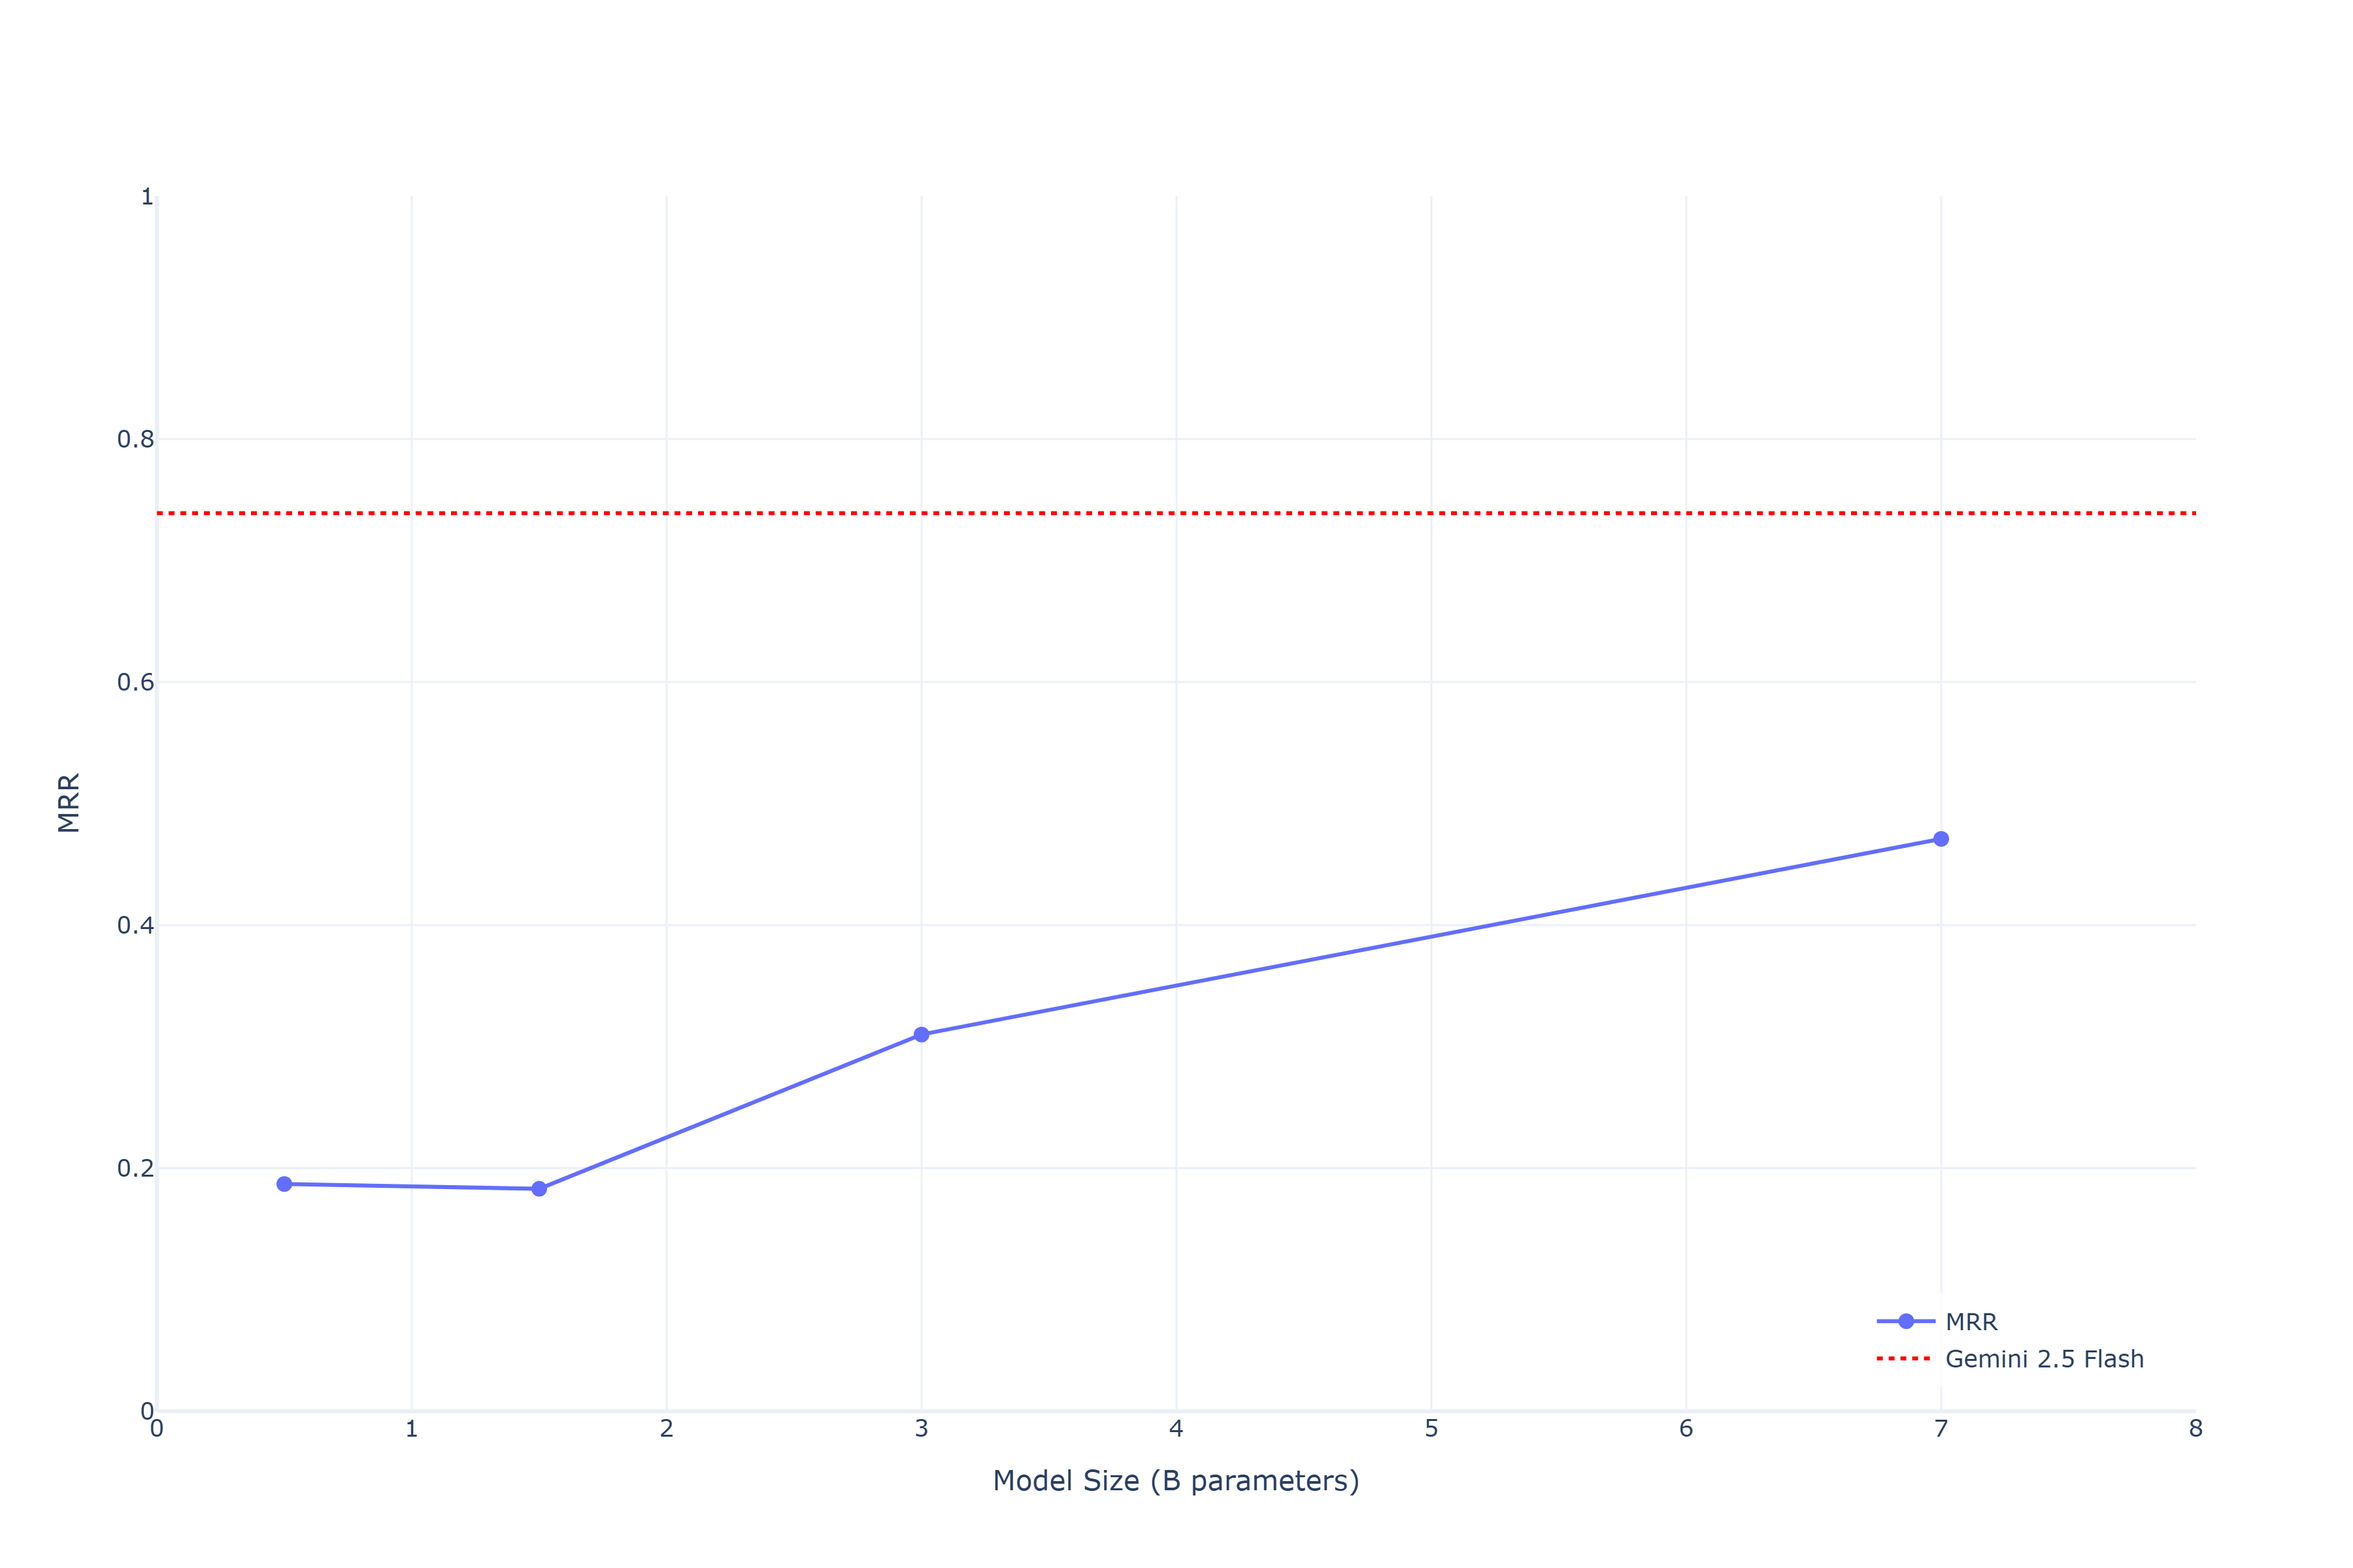
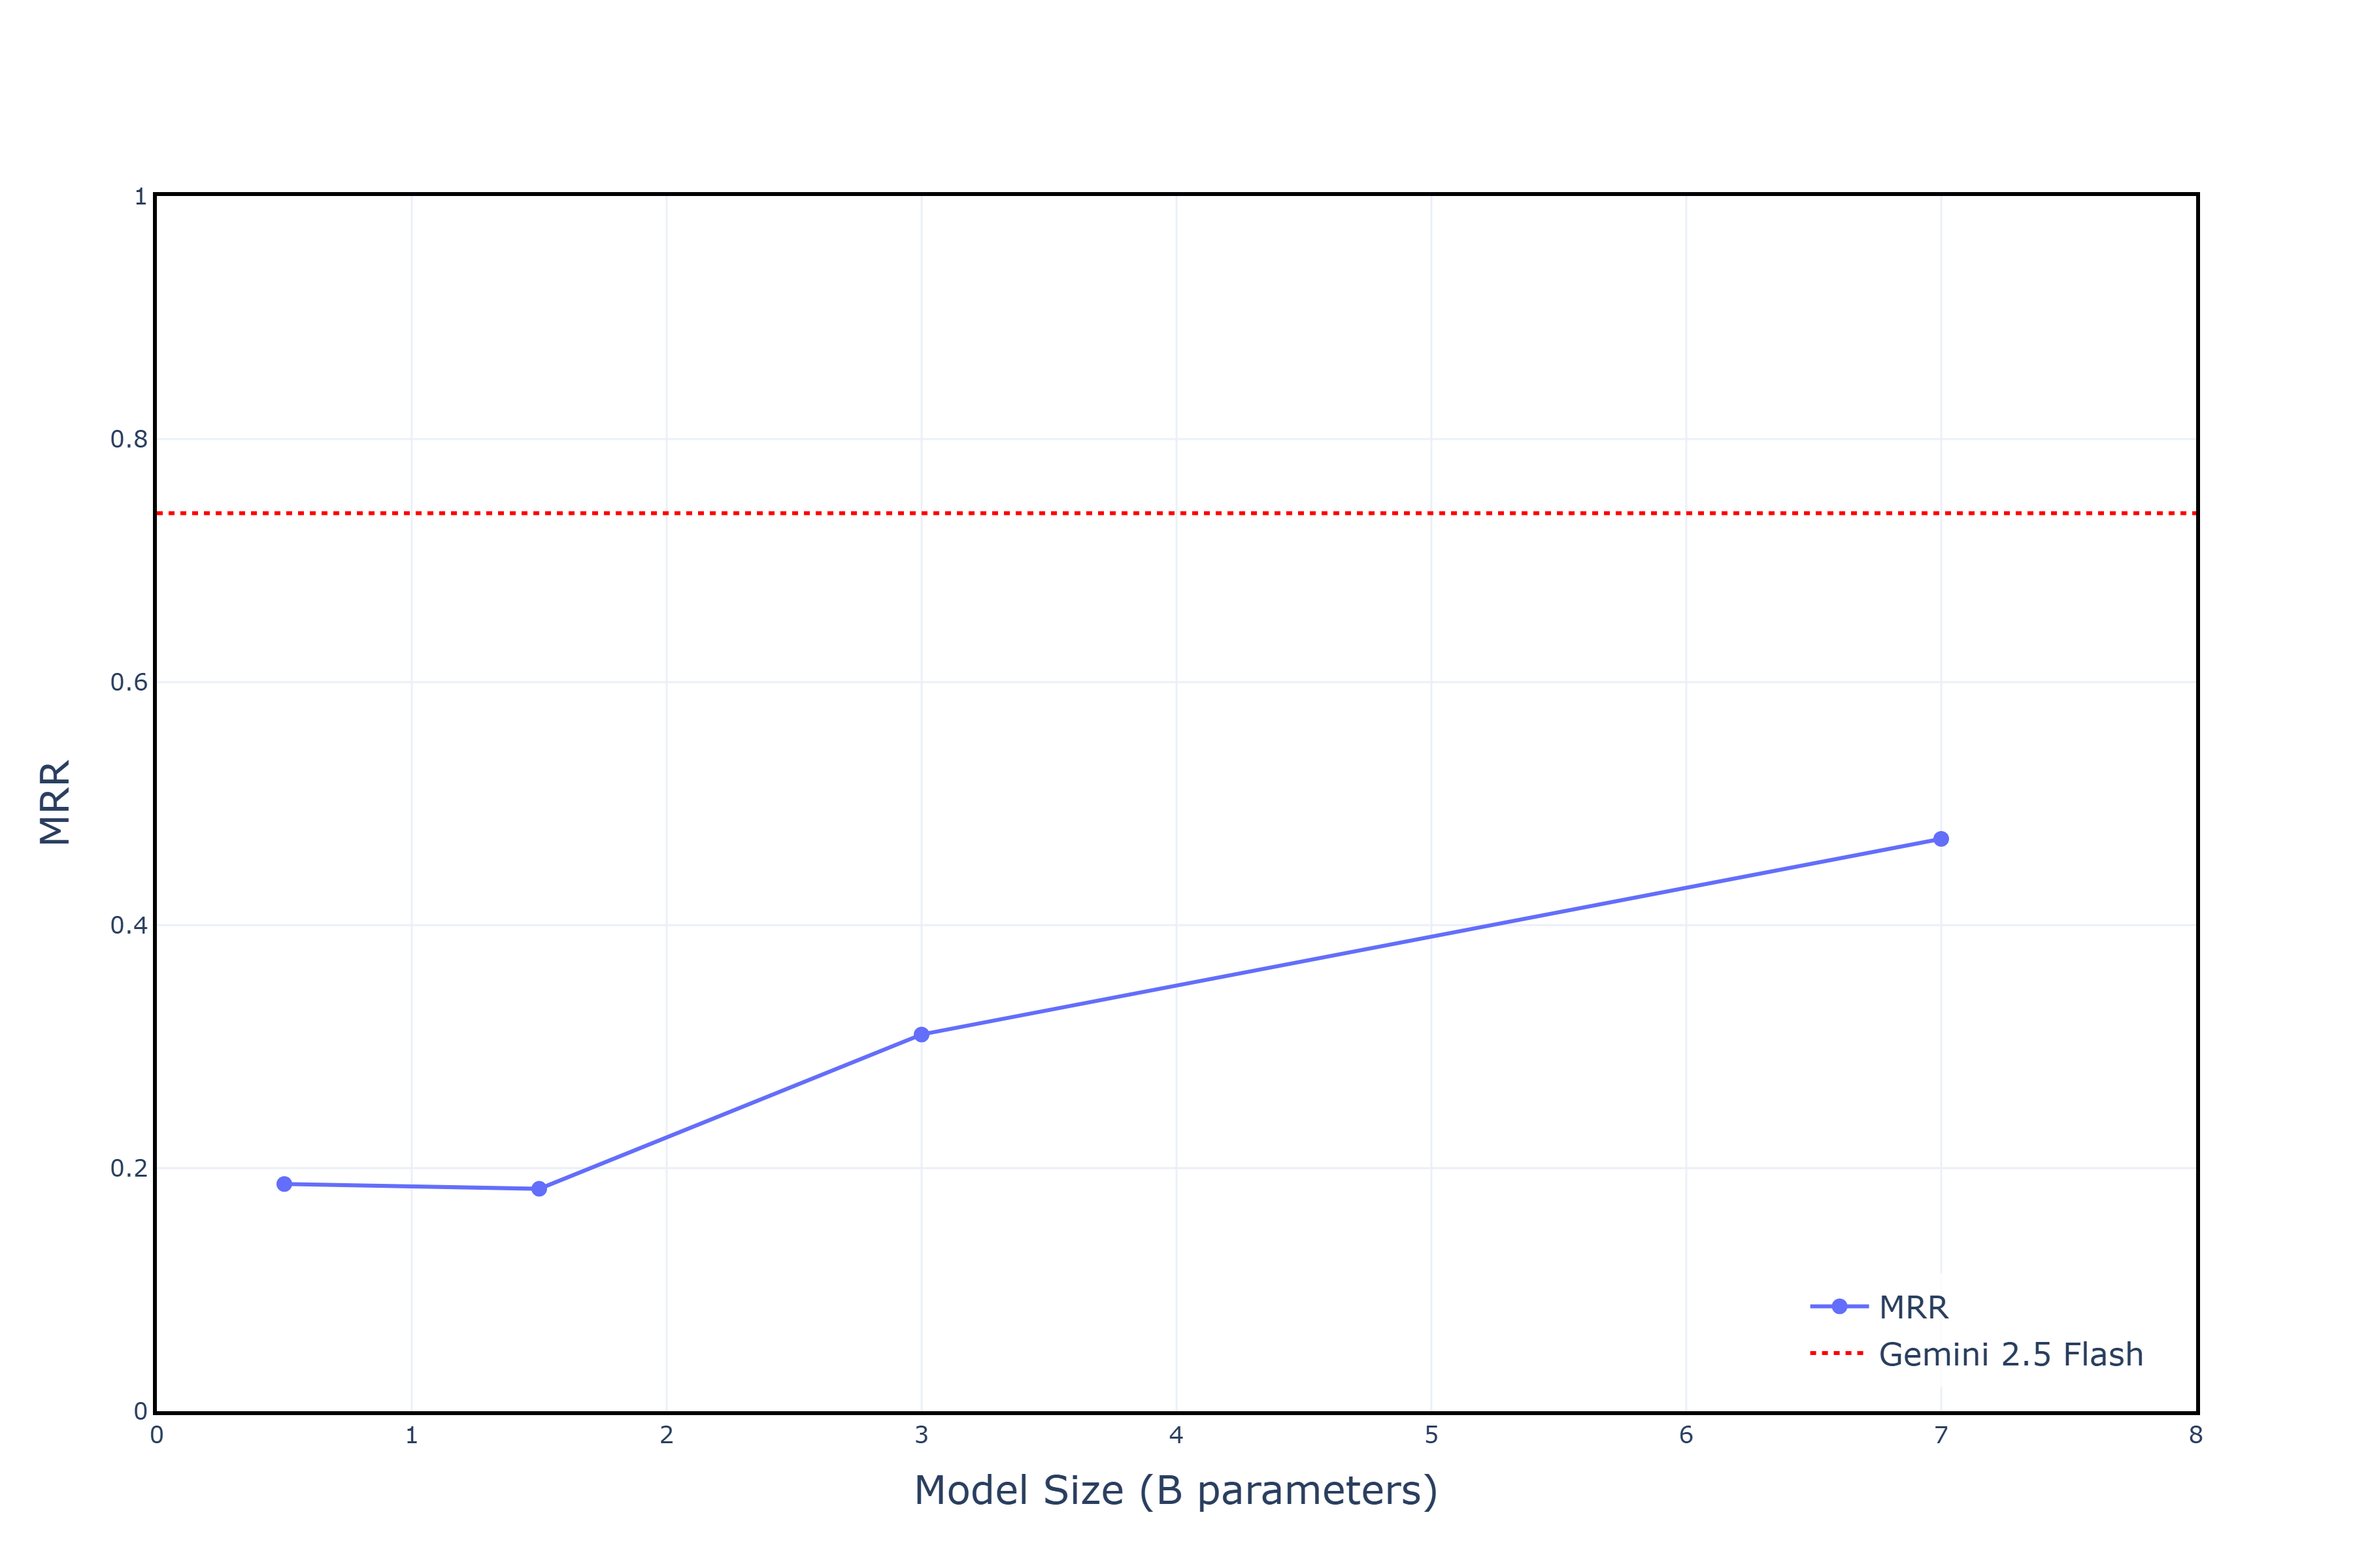
graph

diff --git a/graphs/size-ablation.py b/graphs/size-ablation.py
@@ -27,6 +27,25 @@ fig = go.Figure(
     ]
 )
 fig.update_layout(
+    legend=dict(
+        font=dict(size=16),
+        x=0.98,
+        y=0.02,
+        xanchor='right',
+        yanchor='bottom',
+        bgcolor='rgba(255,255,255,0.7)'
+    )
+)
+# Add a full contour (box) around the plot area
+fig.update_layout(
+    xaxis=dict(showline=True, linewidth=2, linecolor='black', mirror=True),
+    yaxis=dict(showline=True, linewidth=2, linecolor='black', mirror=True)
+)
+fig.update_layout(
+    xaxis=dict(title=dict(text='Model Size (B parameters)', font=dict(size = 20))),
+    yaxis=dict(title=dict(text='MRR', font=dict(size = 20))),
+)
+fig.update_layout(
     title=None,
     legend=dict(
         x=0.98,
@@ -39,8 +58,6 @@ fig.update_layout(
 fig.update_xaxes(range=[0, 8])
 fig.update_yaxes(range=[0, 1])
 fig.update_layout(
-    xaxis_title='Model Size (B parameters)',
-    yaxis_title='MRR',
     template='plotly_white'
 )
 fig.write_image(output_path, scale=3, width=1200, height=800)
